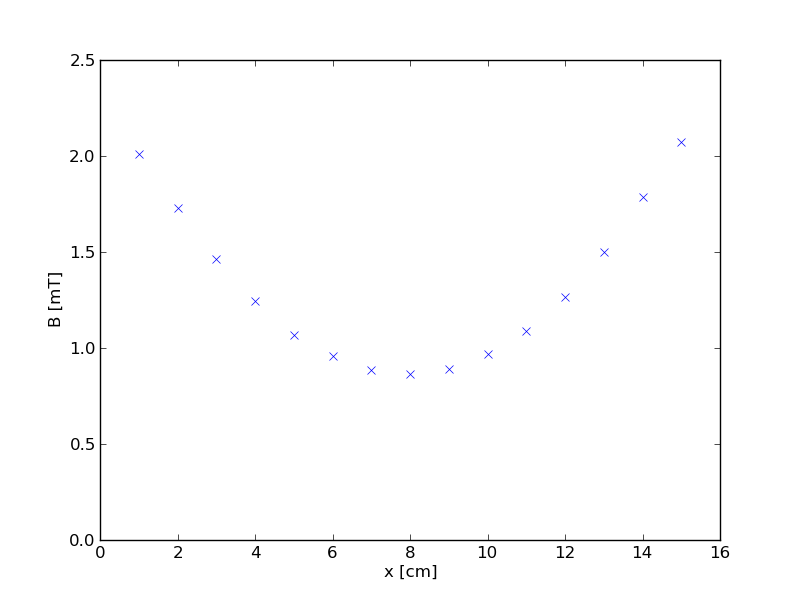
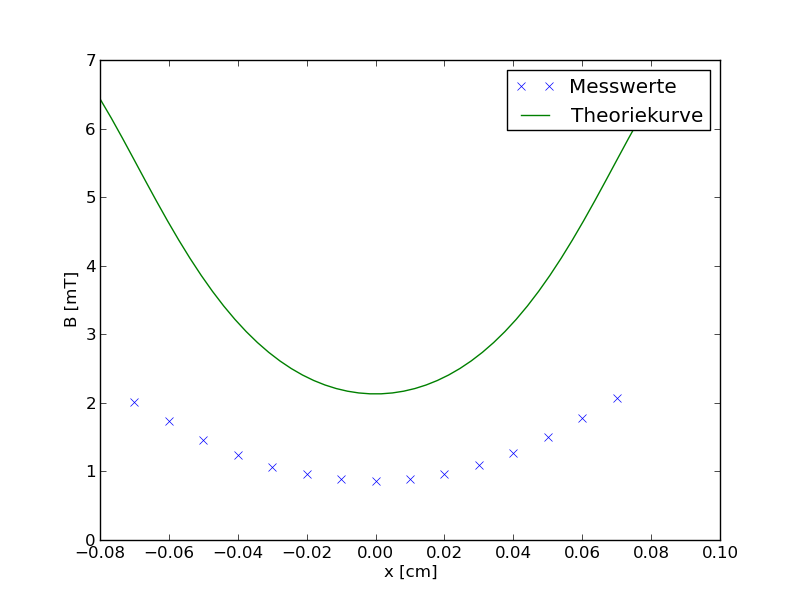
Bilder fertig gemacht....

diff --git a/auswertung308.py b/auswertung308.py
@@ -9,7 +9,8 @@ from scipy import *
 import matplotlib.pyplot as plt
 from uncertainties import *
 import math
-
+from numpy import linspace
+from scipy.constants import *
 
 def make_LaTeX_table(data,header, flip= 'false', onedim = 'false'):
     output = '\\begin{table}\n\\centering\n\\begin{tabular}{'
@@ -82,6 +83,11 @@ def lin_reg(x,y):
 
 # Auslesen der Messwerte
 
+
+#Helmholtzfunktion
+
+def B_HelH(x, I , R, d):
+    return (mu_0*I/2)*((R**2+(x+0.5*d)**2)**-1.5+(R**2+(x-0.5*d)**2)**-1.5)
 x11, b11 = loadtxt("messwerte11.txt", unpack=True)
 x12, b12 = loadtxt("messwerte12.txt", unpack=True)
 x13, b13 = loadtxt("messwerte13.txt", unpack=True)
@@ -89,58 +95,92 @@ x21, b21 = loadtxt("messwerte21.txt", unpack=True)
 x22, b22 = loadtxt("messwerte22.txt", unpack=True)
 x23, b23 = loadtxt("messwerte23.txt", unpack=True)
 
+#Kurven verschieben
+
+x11 -= 3.0
+x12 -= 1.25
+x13 -= 8
+x21 -= 18
+x22 -= 24
+x23 -= 2
+
+
+x11 *= 1e-2
+x12 *= 1e-2
+x13 *= 1e-2
+x21 *= 1e-2
+x22 *= 1e-2
+x23 *= 1e-2
 # Plots der experimentellen Werte
 # Spulenpaar 10 cm:
-plt.plot(x11,b11,'x')
+x = linspace(-0.08,.18)
+plt.plot(x11,b11,'x',label = "Messwerte")
+plt.plot(x,1e3*B_HelH(x, 2.78, 0.0625, 0.1),label = "Theoriekurve")
 plt.xlabel("x [cm]")
 plt.ylabel("B [mT]")
-plt.xlim(0, 21)
-plt.ylim(0, 3)
+#plt.xlim(-3, 18)
+#plt.ylim(0, 3)
+plt.legend()
 plt.savefig("e11.png")
 plt.show()
 plt.close() # Hiermit wird die Zeichung nach dem speichern resettet
 #Spulenpaar 6.25cm:
-plt.plot(x12,b12,'x')
+plt.plot(x12,b12,'x',label = "Messwerte")
+x = linspace(-0.01,.18)
+plt.plot(x,1e3*B_HelH(x, 2.78, 0.0625, 0.0625),label = "Theoriekurve")
 plt.xlabel("x [cm]")
 plt.ylabel("B [mT]")
-plt.xlim(0, 21)
-plt.ylim(0, 4)
+#plt.xlim(0, 21)
+#plt.ylim(0, 4)
+plt.legend()
 plt.savefig("e12.png")
 plt.show()
 plt.close() # Hiermit wird die Zeichung nach dem speichern resettet
 #Spulenpaar 20cm:
-plt.plot(x13,b13,'x')
+plt.plot(x13,b13,'x',label = "Messwerte")
+x = linspace(-0.08,.08)
+plt.plot(x,1e3*B_HelH(x, 2.78, 0.0625, 0.2),label = "Theoriekurve")
 plt.xlabel("x [cm]")
 plt.ylabel("B [mT]")
-plt.xlim(0, 16)
-plt.ylim(0, 2.5)
+#plt.xlim(0, 16)
+#plt.ylim(0, 2.5)
+plt.legend()
 plt.savefig("e13.png")
 plt.show()
 plt.close() # Hiermit wird die Zeichung nach dem speichern resettet
 #Lange Spule:
-plt.plot(x21,b21,'x')
+plt.plot(x21,b21,'x',label = "Messwerte")
+x = linspace(-.09, .24)
+B = ones(50)*1e3*mu_0*(3400/0.1)*0.7
+plt.plot(x, B, label = "Theoriekurve")
 plt.xlabel("x [cm]")
 plt.ylabel("B [mT]")
-plt.xlim(0, 45)
-plt.ylim(0, 9)
+#plt.xlim(0, 45)
+plt.ylim(0, 35)
+plt.legend()
 plt.savefig("e21.png")
 plt.show()
 plt.close() # Hiermit wird die Zeichung nach dem speichern resettet
 #Mittlere Spule:
-plt.plot(x22,b22,'x')
+plt.plot(x22,b22,'x',label = "Messwerte")
 plt.xlabel("x [cm]")
 plt.ylabel("B [mT]")
-plt.xlim(0, 55)
-plt.ylim(0, 12)
+x = linspace(-.15, .27)
+B = ones(50)*1e3*mu_0*(3400/0.1)*0.8
+plt.plot(x, B, label = "Theoriekurve")
+plt.legend()
 plt.savefig("e22.png")
 plt.show()
 plt.close() # Hiermit wird die Zeichung nach dem speichern resettet
 #Kurze Spule:
-plt.plot(x23,b23,'x')
+plt.plot(x23,b23,'x',label = "Messwerte")
 plt.xlabel("x [cm]")
 plt.ylabel("B [mT]")
-plt.xlim(0, 55)
-plt.ylim(0, 10)
+
+x = linspace(-.2, .25)
+B = ones(50)*1e3*mu_0*(3400/0.1)*0.8
+plt.plot(x, B, label = "Theoriekurve")
+plt.legend()
 plt.savefig("e23.png")
 plt.show()
 plt.close() # Hiermit wird die Zeichung nach dem speichern resettet
@@ -150,23 +190,3 @@ print "Alle Plots gespeichert!"
 
 
 
-"""
-laengenD=array([laengeZA,laengeZB,laengeZC])
-zeitenD=array([tdZA,tdZB,tdZC])
-m3, b3 = lin_reg(laengenD,zeitenD)
-print "m und b aus linearer Regression der 2 MHz Sonde: m=%s, b=%s" % (m3,b3)
-plt.plot([laengeZA,laengeZB,laengeZC],[tdZA,tdZB,tdZC],'x')
-
-x=linspace(0,0.25)
-
-plt.plot(x,x*m3.n+b3.n) ## Hier musst du als erstes Argument nocheinmal 'x' angeben !!!!! 
-
-
-plt.xlabel("Zylinderlaenge [m]")
-plt.ylabel("Laufzeit [10^(-6)sec]")
-plt.xlim(0, 0.25)
-plt.ylim(0, 0.0001)
-plt.savefig("Fig3.png")
-plt.close() # Hiermit wird die Zeichung nach dem speichern resettet
-
-"""

diff --git a/tables.py b/tables.py
@@ -64,8 +64,7 @@ for file in filenumber:
     
     
     
-def B_HelH(x, I , R, d):
-    return (mu_0*I/2)*((R**2+(x+0.5*d)**2)**-1.5+(R**2+(x-0.5*d)**2)**-1.5)
+
 
 
 x = linspace(-.3,.3)
